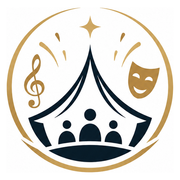
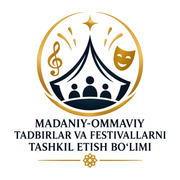
Yangi logotip oq fonda: sahifalar, ikonkalar va Word hisobotlari yangilandi

diff --git a/src/lib/report/logo.ts b/src/lib/report/logo.ts
@@ -1,4 +1,4 @@
 // Avtomatik hosil qilingan (scripts/make-logo-module.mjs): gerb PNG, Word hisobotlariga joylanadi.
 export const LOGO_PNG_BASE64 =
[1 lines of base64/hex data omitted]
-export const LOGO_ASPECT = 1.0091; // kenglik / balandlik
[1 lines of base64/hex data omitted]
+export const LOGO_ASPECT = 1.0000; // kenglik / balandlik

diff --git a/src/components/layout/sidebar.tsx b/src/components/layout/sidebar.tsx
@@ -106,8 +106,8 @@ export function Sidebar({
 
   const brand = (
     <div className="flex items-center gap-3 border-b border-white/10 px-4 py-4">
-      <div className="flex h-12 w-12 shrink-0 items-center justify-center rounded-lg bg-white">
-        <Emblem size={34} />
+      <div className="flex h-14 w-14 shrink-0 items-center justify-center overflow-hidden rounded-lg bg-white">
+        <Emblem size={56} />
       </div>
       <div className="leading-tight">
         <p className="text-sm font-bold text-white">Madaniyat vazirligi</p>
@@ -119,7 +119,7 @@ export function Sidebar({
   return (
     <>
       <header className="app-header sticky top-0 z-30 flex items-center justify-between bg-slate-900 px-4 py-3 text-white lg:hidden">
-        <span className="flex items-center gap-2 text-sm font-bold"><span className="flex h-8 w-8 items-center justify-center rounded bg-white"><Emblem size={22} /></span> Madaniyat vazirligi</span>
+        <span className="flex items-center gap-2 text-sm font-bold"><span className="flex h-9 w-9 items-center justify-center overflow-hidden rounded bg-white"><Emblem size={36} /></span> Madaniyat vazirligi</span>
         <button aria-label={open ? "Menyuni yopish" : "Menyuni ochish"} onClick={() => setOpen((v) => !v)} className="cursor-pointer rounded p-1 hover:bg-white/10">
           {open ? <X className="h-6 w-6" /> : <Menu className="h-6 w-6" />}
         </button>

diff --git a/src/app/(app)/boshqarma/page.tsx b/src/app/(app)/boshqarma/page.tsx
@@ -96,7 +96,7 @@ export default async function RegionPanel() {
     <div className="space-y-6">
       <header className="overflow-hidden rounded-xl border border-slate-200 bg-white shadow-sm">
         <div className="flex flex-wrap items-center gap-4 border-b-4 border-blue-800 bg-slate-900 px-5 py-4 text-white">
-          <span className="flex h-16 w-16 shrink-0 items-center justify-center rounded-lg bg-white"><Emblem size={46} /></span>
+          <span className="flex h-20 w-20 shrink-0 items-center justify-center overflow-hidden rounded-lg bg-white"><Emblem size={80} /></span>
           <div className="leading-snug">
             <p className="text-xs font-semibold tracking-wide text-slate-300">{MINISTRY_FULL}</p>
             <p className="text-[11px] text-slate-400">{DEPARTMENT_NAME}</p>

diff --git a/src/app/login/page.tsx b/src/app/login/page.tsx
@@ -16,8 +16,8 @@ export default async function LoginPage() {
     <main className="flex min-h-screen items-center justify-center bg-slate-900 px-4 py-10">
       <div className="w-full max-w-md">
         <div className="mb-6 text-center text-white">
-          <div className="mx-auto mb-4 flex h-28 w-28 items-center justify-center rounded-full bg-white shadow-lg">
-            <Emblem size={88} />
+          <div className="mx-auto mb-4 flex h-36 w-36 items-center justify-center overflow-hidden rounded-2xl bg-white shadow-lg">
+            <Emblem size={144} />
           </div>
           <p className="text-xs uppercase tracking-widest text-slate-300">O‘zbekiston Respublikasi</p>
           <h1 className="mt-1 text-2xl font-bold">Madaniyat vazirligi</h1>
